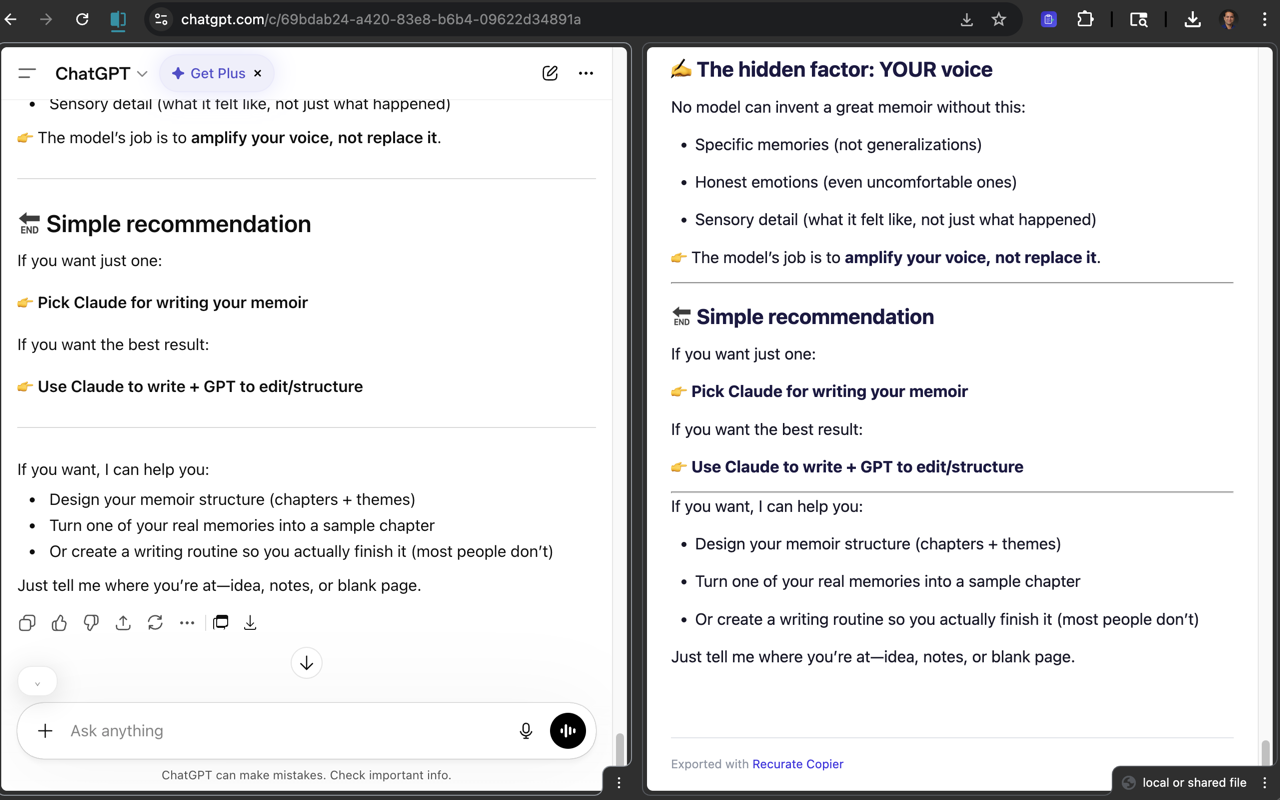
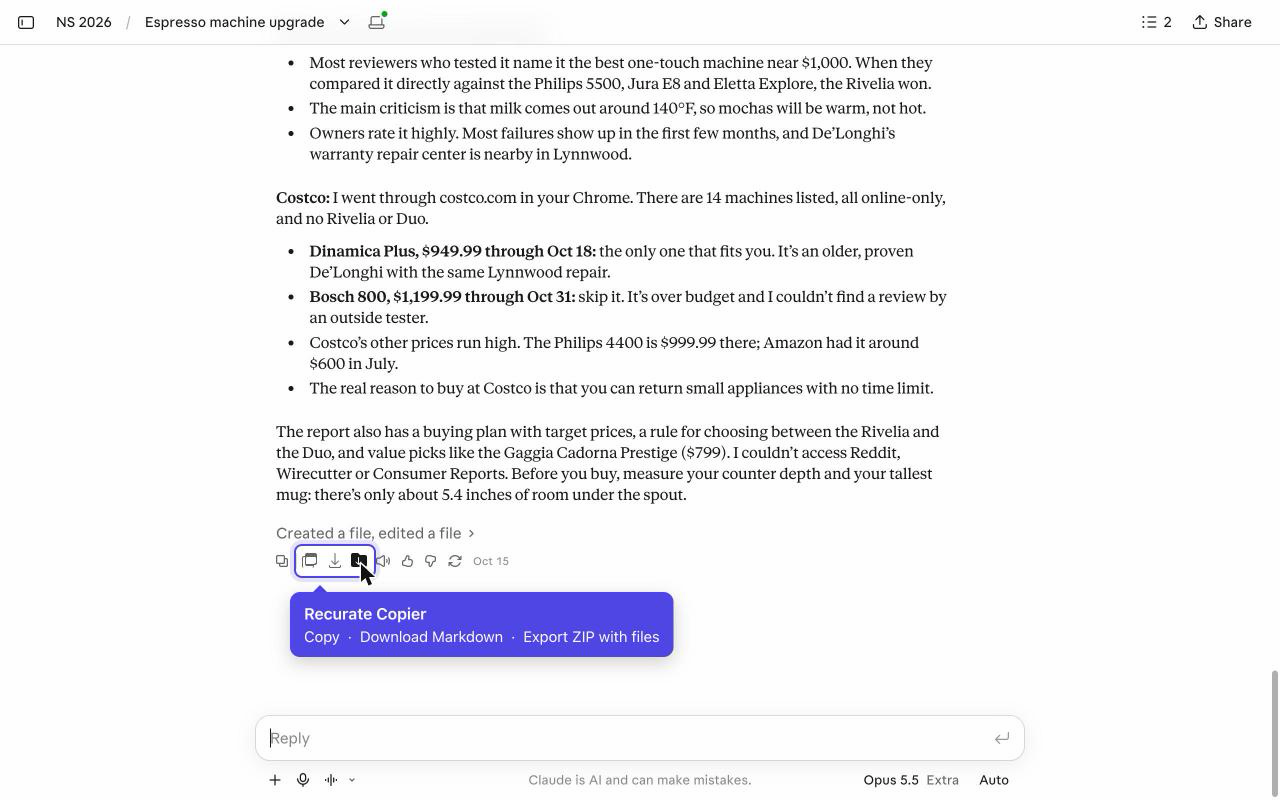
Copier 1.0.0 submitted to the Chrome Web Store; site and docs (task #541)
Nikhil uploaded 1.0.0 in the store dashboard on November 16 (Chrome
blocks extensions from scripting the store, so the clicks were his): new
package, description, three screenshots and the Privacy tab answers for
activeTab, scripting and the host list. It is in review; the store page
shows 0.4.0 until approval. No privacy policy URL was needed, since
Copier collects no user data.

recurate.ai now describes 1.0: the home page, product brief, design doc
and the site's structured data, with the Claude screenshot replacing the
old HTML-export picture. The GitHub release text's Copier row, CHANGELOG,
CURRENT_STATE, README, CLAUDE.md and NOW record the submission.

Changed region(s): [[0.0, 0.0, 1.0, 1.0], [0.0625, 0.9062, 0.125, 0.9375]]

diff --git a/docs/overrides/main.html b/docs/overrides/main.html
@@ -64,7 +64,7 @@
         "featureList": [
           "Annotator: highlight, strikethrough, dig deeper, verify on AI responses",
           "Composer: structured input format for AI prompts",
-          "Copier: capture AI conversations as clean markdown or styled HTML",
+          "Copier: save whole AI conversations as Markdown, with tool steps, sources and files",
           "Connect: coordinate between parallel AI chats with one-click context sharing",
           "Platform: compare responses across Claude, GPT, Gemini, and Grok side by side"
         ],

diff --git a/docs/design.md b/docs/design.md
@@ -64,7 +64,7 @@ What started as a single annotation extension has grown into a suite of five ext
 | **Annotator** (Chrome) | Curate the output — highlight, strikethrough, dig deeper, verify | Claude, ChatGPT, Copilot (consumer + enterprise) | Published |
 | **Annotator** (VS Code) | Same annotation UX for Claude Code terminal workflow | VS Code, Antigravity, VSCodium, Theia | Published |
 | **Composer** | Compose the input — floating markdown toolbar for AI chat inputs | Claude, ChatGPT, Grok, Gemini, Copilot (consumer + enterprise), Google Search | Published |
-| **Copier** | Capture the conversation — Copy/Download/Export (ZIP with artifacts on Claude) | Claude, ChatGPT, Grok, Gemini, Copilot (consumer + enterprise), Google AI Mode | v0.2.0 Submitted |
+| **Copier** | Capture the conversation: Copy, Download (Markdown) and Export (ZIP with the chat's files) | Claude, ChatGPT, Grok, Gemini, Copilot (work and personal) | 1.0.0 Submitted |
 | **Connect** | Connect the conversations — share context between two AI chat tabs | Claude, Copilot (2-tab, cross-platform, Chrome + Edge) | v0.2.0 Built |
 
 - **No backend, no API keys, fully client-side.** All extensions run entirely in the browser.
@@ -106,7 +106,7 @@ For full implementation details, see:
 | Copilot (Consumer) | copilot.microsoft.com | Working |
 | Copilot (Enterprise) | m365.cloud.microsoft/chat | Working |
 
-Note: Grok and Gemini are supported by Composer (8 platforms) and Copier (7 platforms) but not yet by the Annotator. Annotator platform expansion is on the roadmap.
+Note: Grok and Gemini are supported by Composer (8 platforms) and Copier (5 sites) but not yet by the Annotator. Annotator platform expansion is on the roadmap.
 
 ### 3.3 Architecture Overview
 
@@ -263,7 +263,7 @@ Two things are novel in the Recurate design:
 | Component | Technology |
 |-----------|------------|
 | Architecture | Vanilla JS, no build step, Chrome Manifest V3 |
-| Platforms | Composer: 8, Copier: 7 (see extension family table above) |
+| Platforms | Composer: 8, Copier: 5 (see extension family table above) |
 
 ### 6.4 Connect
 
@@ -291,7 +291,7 @@ All extensions share a common brand identity (indigo gradient icons, same color 
 
 ### Built and Tested
 
-- **Copier** v0.1.0 published on Chrome Web Store. v0.2.0 with three buttons and ZIP export built locally. 7 platforms.
+- **Copier** 1.0.0 submitted to the Chrome Web Store (November 16, 2026). A rebuild that reads each site's own conversation data. 5 sites.
 - **Connect** v0.2.0 — built and tested. Claude + Copilot cross-platform, 2-tab connection. Chrome + Edge. Not yet submitted.
 - **Recurate Platform** — live at app.recurate.ai. 4 LLMs with Condensed Context synthesis.
 

diff --git a/CURRENT_STATE.md b/CURRENT_STATE.md
@@ -71,7 +71,7 @@
 - Platform-specific editor detection: ProseMirror (Claude, ChatGPT, Grok), textarea (Google, Copilot consumer), Lexical (Copilot enterprise), contenteditable (Gemini)
 - Icon: indigo gradient with pen + formatting marks (same brand palette as Annotator)
 
-### Recurate Copier: Conversation Export (1.0 built and tested in the repo; the store still has 0.4.0)
+### Recurate Copier: Conversation Export (1.0.0 submitted to the Chrome Web Store on Nov 16, in review)
 - Vanilla JS, Chrome Manifest V3, no build step. JSZip and Turndown (with its GFM plugin) vendored in `lib/`.
 - **Reads each site's own conversation data** (Claude, ChatGPT, Grok, Gemini). Copilot has none reachable from the page, so it is collected by scrolling and checked against the message total the page reports.
 - **Structure:** one conversation model (`core/model.js`), one Markdown writer (`core/markdown.js`), safe file names (`core/names.js`), one adapter per site (`platforms/`), and `content.js` for buttons, the progress window and the ZIP.
@@ -82,7 +82,7 @@
 - **Permissions:** activeTab and scripting. No background worker, no backend.
 - **Tests:** node tests in `test/` (`node --test test/` from the Copier folder). `probe/` holds the live probe that produced the value-free skeletons the fixtures follow.
 - **Docs:** spec `docs/spec.md` (v2.1); `docs/reviews/` holds the spec review, the live test record and the breaker pass.
-- **Status:** build steps 1 to 10 done (tasks #531 to #540). Step 11, release prep (#541), is in progress: store listing, release notes, screenshots, docs and the release workflow are done. Open: the Extension Update Testing Tool (needs a Chrome policy profile on this Mac), Nikhil's look at the screenshots, and the store upload on his go. The recurate.ai pages for Copier still describe 0.4.0 on purpose: a push to main publishes the site, so they change with the upload.
+- **Status:** all 11 build steps done (tasks #531 to #541). 1.0.0 was submitted to the Chrome Web Store on Nov 16 and is in review; the store page shows 0.4.0 until it is approved. recurate.ai and the GitHub release (v1.8.0) describe 1.0.
 
 ### Recurate Connect — Cross-Chat Context Sharing (Built — Claude.ai + Copilot)
 - WXT + Preact + Preact Signals + TypeScript (same stack as Annotator)

diff --git a/NOW.md b/NOW.md
@@ -41,7 +41,7 @@ Build steps (one task each, #531 to #541):
 8. [x] UI, popup, ZIP, screen check (#538)
 9. [x] Live test matrix and proof (#539)
 10. [x] Breaker pass (#540): 17 findings, then two independent reviews of the fixes (all findings fixed or answered), live rerun on all five sites; records in `extensions/conversation-copier/docs/reviews/`
-11. [ ] Release prep; store upload on Nikhil's go (#541)
+11. [x] Release prep and store submission (#541)
 
 Step 11 (Nov 16):
 - [x] Reruns after Nikhil's reload: Claude uploads 13 of 13 (was 13 of 15), Gemini "1 image" (was 3)
@@ -51,8 +51,9 @@ Step 11 (Nov 16):
 - [x] Three 1280x800 screenshots from the espresso chat and a ChatGPT trip chat (sidebars collapsed, one name covered), approved by Nikhil: `screenshot-1.0-1.jpg` to `-3.jpg`. The three older screenshots are removed (Nikhil, Nov 16)
 - [x] Release ZIP `recurate-copier-1.0.0.zip` (git-ignored)
 - [x] Extension Update Testing Tool skipped by Nikhil's ruling (spec ruling 4): on a Mac it needs a system Chrome policy profile. Chrome's permission list shows no warning for activeTab or scripting, and the six https hosts are a subset of 0.4.0's eight
-- [ ] Store upload, Privacy tab update and screenshots, on Nikhil's go
-- [ ] With the upload: recurate.ai Copier pages (`docs/index.md`, `docs/product_brief.md`, `docs/design.md`; a push to main publishes the site), tag and GitHub release
+- [x] Store upload, description, screenshots and Privacy tab (Nikhil in the dashboard, Nov 16; Chrome blocks extensions from scripting the store). Submitted for review
+- [x] recurate.ai Copier pages and hero image updated; tag v1.8.0 and GitHub release
+- [ ] Store review: if the dashboard shows "Ready to publish" after approval instead of "Published", Nikhil clicks Publish
 - [x] The 29 test exports from Nov 15 and 16 in ~/Downloads moved to the Trash (Nikhil, Nov 16)
 
 Google AI Mode is removed in 1.0 (shelved since July, see CHANGELOG 1.7.0).

diff --git a/docs/product_brief.md b/docs/product_brief.md
@@ -67,13 +67,14 @@ AI responds in rich text. You're stuck with plain text. Recurate Composer adds a
 - Works on **claude.ai, ChatGPT, Grok, Gemini, Microsoft Copilot** (consumer + enterprise), **Google Search** — 8 platforms
 - Published on [Chrome Web Store](https://chromewebstore.google.com/detail/recurate-composer/kjohokkfembjbgcoclgomcjfnnpbehjg)
 
-### Recurate Copier — Capture the Conversation
+### Recurate Copier: Capture the Conversation
 
-Copy or download your full AI conversation — both your messages and the AI's responses. One click for clean markdown to clipboard, or download as a styled HTML file with formatted responses, smart filenames, and a print-ready layout.
+Save a whole AI conversation, your messages and the AI's replies, as Markdown. Copy puts it on the clipboard. Download saves a `.md` file. Export saves a ZIP with the chat's files.
 
-- Works on **claude.ai, ChatGPT, Grok, Gemini, Microsoft Copilot** (consumer + enterprise), **Google AI Mode** — 7 platforms
-- Three buttons on Claude.ai: Copy (markdown), Download (quick HTML with timestamp), Export (full ZIP with artifacts + uploads + progress modal)
-- Published on [Chrome Web Store](https://chromewebstore.google.com/detail/recurate-copier/hjghmpleblbcgmmedlejbiemgggcmggg) (v0.1.0). v0.2.0 with ZIP export on [GitHub Releases](https://github.com/nikhilsi/recurate/releases/latest).
+- Works on **Claude, ChatGPT, Grok, Gemini and Microsoft Copilot** (work and personal accounts)
+- Reads each site's own conversation data, so long chats come out whole; every export says whether it is complete
+- Keeps thinking summaries, tool steps, sources, images and files where the site provides them
+- Published on [Chrome Web Store](https://chromewebstore.google.com/detail/recurate-copier/hjghmpleblbcgmmedlejbiemgggcmggg). Version 1.0 (November 2026) is a rebuild.
 
 ### Recurate Connect — Connect the Conversations
 

diff --git a/CLAUDE.md b/CLAUDE.md
@@ -83,7 +83,7 @@ The core insight: every AI chat interface gives you a text box as the only way t
 
 *Markdown Toolbar (Recurate Composer)* — Floating markdown formatting toolbar for AI chat input boxes. The input-side complement to the output-side Annotator. Bold, italic, strikethrough, headings, code, lists, blockquotes, links. Works on claude.ai, ChatGPT, Grok, Gemini, Microsoft Copilot (consumer + enterprise), and Google Search. Vanilla JS, no build step.
 
-*Conversation Copier (Recurate Copier)*: exports a whole AI conversation as Markdown: Copy, Download (`.md`) and Export (ZIP with uploads and generated files). Reads each site's own conversation data on claude.ai, ChatGPT, Grok and Gemini; collects Microsoft Copilot (work and personal) by scrolling. Toolbar popup (Alt+Shift+C). Vanilla JS with JSZip and Turndown vendored. Version 1.0.0 in the repo; the store has 0.4.0 until the upload. Spec: `extensions/conversation-copier/docs/spec.md`.
+*Conversation Copier (Recurate Copier)*: exports a whole AI conversation as Markdown: Copy, Download (`.md`) and Export (ZIP with uploads and generated files). Reads each site's own conversation data on claude.ai, ChatGPT, Grok and Gemini; collects Microsoft Copilot (work and personal) by scrolling. Toolbar popup (Alt+Shift+C). Vanilla JS with JSZip and Turndown vendored. Version 1.0.0, submitted to the Chrome Web Store on Nov 16, 2026. Spec: `extensions/conversation-copier/docs/spec.md`.
 
 *Chat Connector (Recurate Connect)* — Connect two AI chat tabs with one-click context sharing. Works across Claude.ai and Microsoft Copilot. Share messages between specialist chats via a shared space sidebar or `\rc` command. Shared context is injected into the target chat's input and auto-sent. WXT + Preact + TypeScript.
 

diff --git a/docs/index.md b/docs/index.md
@@ -48,14 +48,14 @@ AI responds in rich text. You're stuck with plain text. Recurate Composer adds a
 
 [Install from Chrome Web Store](https://chromewebstore.google.com/detail/recurate-composer/kjohokkfembjbgcoclgomcjfnnpbehjg){ .md-button .md-button--primary }
 
-### Recurate Copier — Conversation Export
+### Recurate Copier: Conversation Export
 
-Three buttons on Claude.ai: Copy (markdown to clipboard), Download (quick HTML with timestamp), Export (full ZIP with artifacts + uploads). Two buttons on other platforms. On Claude, the Export button creates a complete archive with conversation, all generated artifacts, and all uploaded files. Works on claude.ai, ChatGPT, Grok, Gemini, Microsoft Copilot, and Google AI Mode.
+Saves a whole AI conversation as Markdown on Claude, ChatGPT, Grok, Gemini and Microsoft Copilot. Copy puts it on the clipboard. Download saves a Markdown file. Export saves a ZIP with the chat's uploads and the files the AI made. Copier reads each site's own conversation data, so long chats come out whole. Every export starts with a header that says whether it is complete and lists any file that failed.
 
-![Recurate Copier — ChatGPT conversation exported as styled HTML](assets/images/copier-hero.png)
+![Recurate Copier buttons in Claude's message toolbar](assets/images/copier-hero.png)
 
 [Install from Chrome Web Store](https://chromewebstore.google.com/detail/recurate-copier/hjghmpleblbcgmmedlejbiemgggcmggg){ .md-button .md-button--primary }
-[v0.2.0 with ZIP export](https://github.com/nikhilsi/recurate/releases/latest){ .md-button }
+[1.0 release notes](https://github.com/nikhilsi/recurate/releases/latest){ .md-button }
 
 ### Recurate Connect — Cross-Chat Context Sharing
 

diff --git a/CHANGELOG.md b/CHANGELOG.md
@@ -6,7 +6,7 @@ All notable changes to this project will be documented in this file.
 
 ## [1.8.0] - 2026-11-16
 
-Copier 1.0.0, a rebuild. Built and tested in the repo; the Chrome Web Store upload waits for Nikhil's go. Full release notes, including the untested list, are in `extensions/conversation-copier/STORE_LISTING.md`. Spec and test records are in `extensions/conversation-copier/docs/`.
+Copier 1.0.0, a rebuild. Submitted to the Chrome Web Store on November 16, 2026 (in review). Full release notes, including the untested list, are in `extensions/conversation-copier/STORE_LISTING.md`. Spec and test records are in `extensions/conversation-copier/docs/`.
 
 ### Changed
 - **Copier reads each site's own conversation data** on Claude, ChatGPT, Grok and Gemini instead of copying the page. Copier 0.4.0 was broken or partial on every site (live check, Nov 15): ChatGPT exported 0 messages, Grok dropped the user's messages, Gemini stopped at the latest 10 turns, Copilot got only the visible part, and Claude exports dropped tools, sources and files.

diff --git a/README.md b/README.md
@@ -74,7 +74,7 @@ Saves a whole AI conversation as Markdown on **Claude**, **ChatGPT**, **Grok**, 
 - Thinking, tool steps, sources, images and files, as far as each site provides them. The branch on screen is the one exported.
 - Buttons in Claude's message toolbar, a floating cluster on the other sites, and a toolbar popup (Alt+Shift+C).
 
-**Status:** 1.0.0 is built and tested in this repo (spec and test records in `extensions/conversation-copier/docs/`). The Chrome Web Store still has 0.4.0 until the 1.0 upload: [Chrome Web Store](https://chromewebstore.google.com/detail/recurate-copier/hjghmpleblbcgmmedlejbiemgggcmggg)
+**Status:** 1.0.0 was submitted to the Chrome Web Store on November 16, 2026 and is in review; the store page shows 0.4.0 until it is approved. Spec and test records are in `extensions/conversation-copier/docs/`. [Chrome Web Store](https://chromewebstore.google.com/detail/recurate-copier/hjghmpleblbcgmmedlejbiemgggcmggg)
 
 ### Recurate Connect — Cross-Chat Context Sharing
 

diff --git a/extensions/conversation-copier/STORE_LISTING.md b/extensions/conversation-copier/STORE_LISTING.md
@@ -1,6 +1,8 @@
 # Chrome Web Store Listing: Recurate Copier 1.0.0
 
-Text to paste into the Chrome Web Store developer dashboard, plus the 1.0 release notes and the build command.
+Text to paste into the Chrome Web Store developer dashboard, plus the 1.0 release notes and the build command. Submitted for review on November 16, 2026.
+
+The dashboard asked for a privacy policy URL; it was left empty because Copier collects no user data, and the dashboard allowed the submission. The Privacy tab showed no separate remote code question for this item.
 
 ---
 
